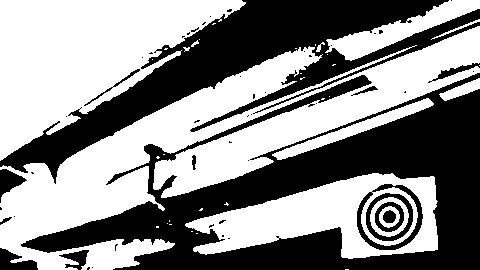
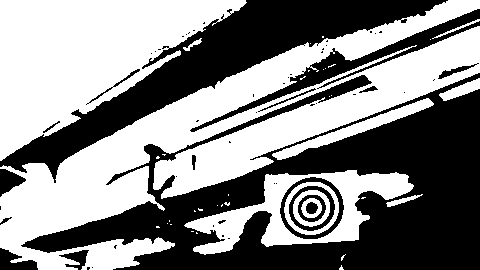
more ported

diff --git a/bullseye_track/main.cpp b/bullseye_track/main.cpp
@@ -11,7 +11,7 @@ uint8_t downscaled_gray_buffer[480*270];
 uint8_t blurred_buffer[480*270];
 
 void update_framebuffer() {
-    std::ifstream file("../images/BIMG_000.BIN", std::ios::binary);
+    std::ifstream file("../images/BIMG_001.BIN", std::ios::binary);
     if (!file) return;
 
     file.read(reinterpret_cast<char*>(framebuffer), sizeof(framebuffer));
@@ -24,6 +24,22 @@ void downscale_and_gray() {
             downscaled_gray_buffer[r * 480 + c] = static_cast<uint8_t>(row[c * 4]);
         }
     }
+}
+
+cv::Point contour_center_if_circular(const std::vector<cv::Point>& cnt, float circular_threshold = 0.7) {
+    double area = cv::contourArea(cnt);
+    if (area < 100)
+        return cv::Point (-1, -1);
+    double perimeter = cv::arcLength(cnt, true);
+    if (perimeter == 0)
+        return cv::Point (-1, -1);
+    
+    double circularity = (4 * 3.14159265358979323846 * area) / (perimeter * perimeter);
+    if (circularity <= circular_threshold)
+        return cv::Point (-1, -1);
+    
+    cv::Moments M = cv::moments(cnt);
+    return cv::Point (M.m10 / M.m00, M.m01 / M.m00);
 }
 
 int main() {
@@ -49,6 +65,13 @@ int main() {
         hierarchy.clear();
 
         cv::findContours(img, contours, hierarchy, cv::RETR_TREE, cv::CHAIN_APPROX_SIMPLE);
+
+        std::vector<cv::Point> props;
+        for (const auto& cnt : contours) {
+            cv::Point center = contour_center_if_circular(cnt);
+            props.push_back(center);
+            std::cout << center << std::endl;
+        }
 
 
 
